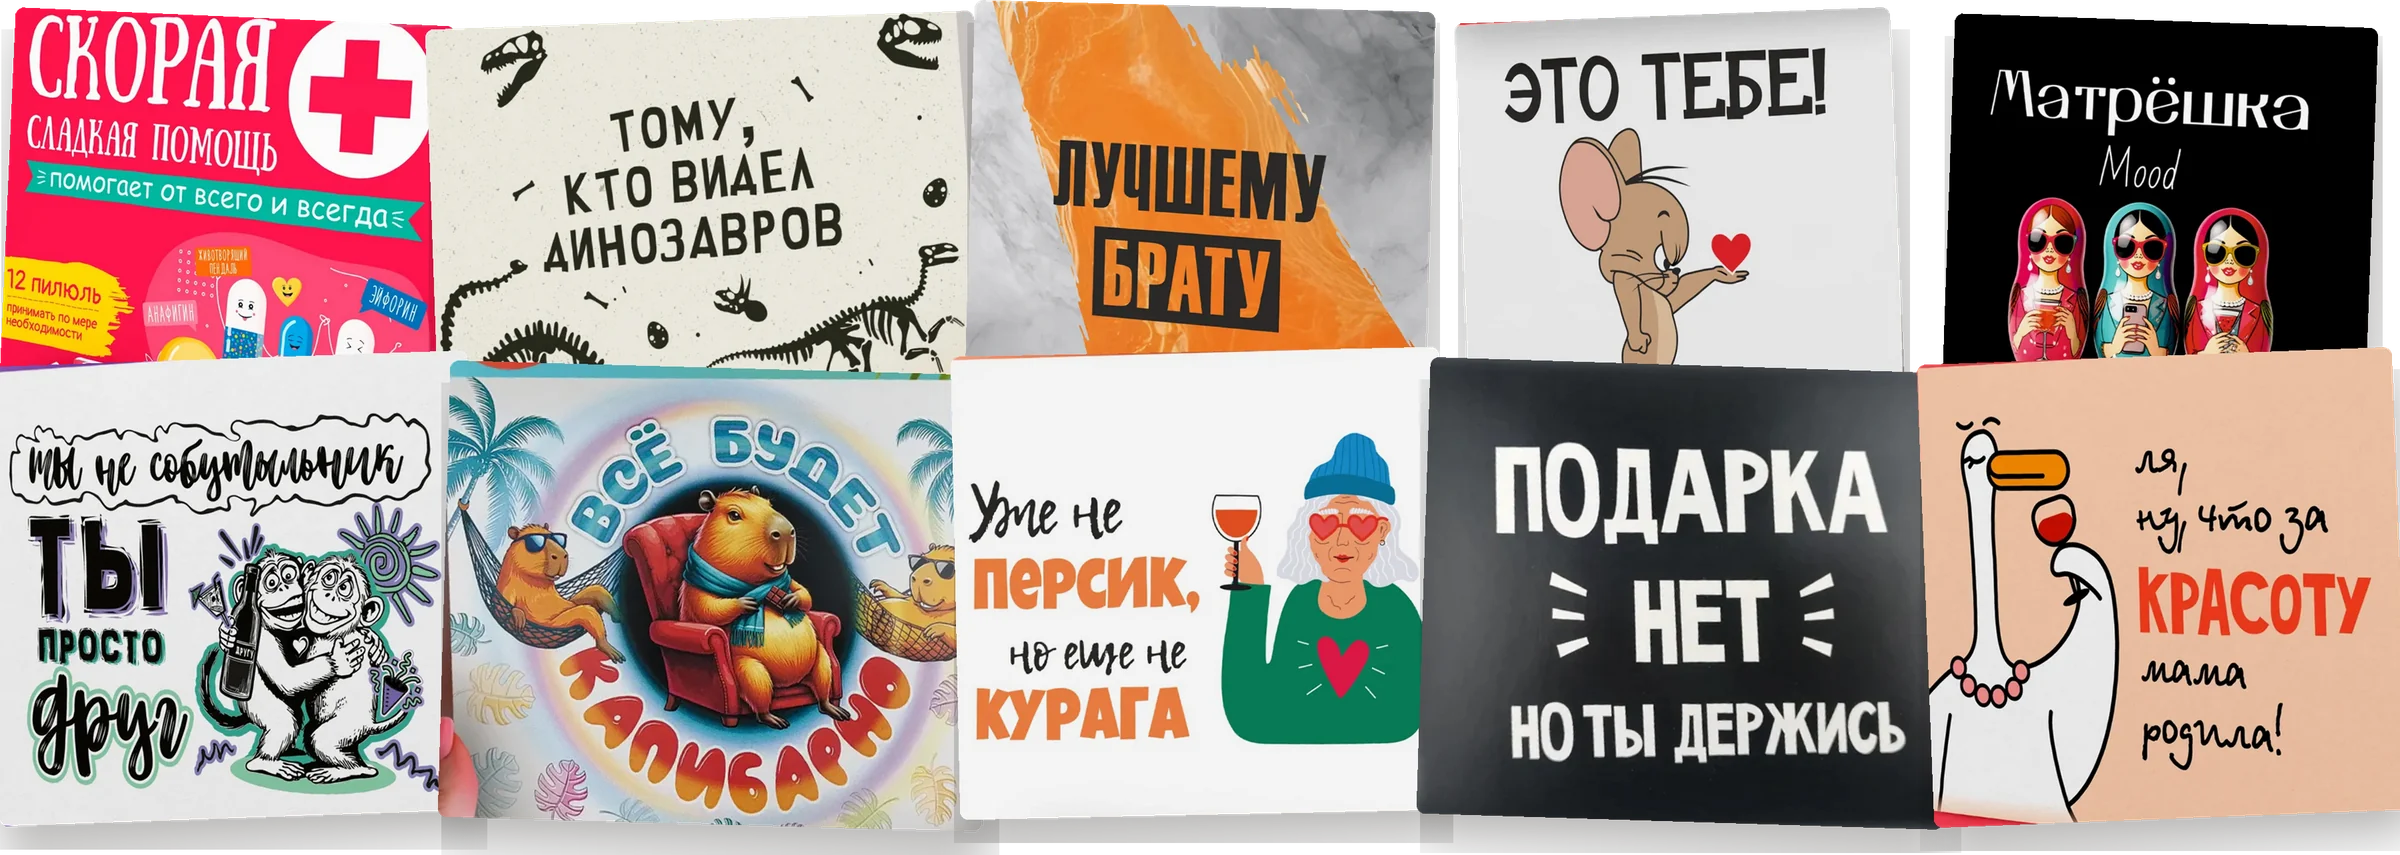
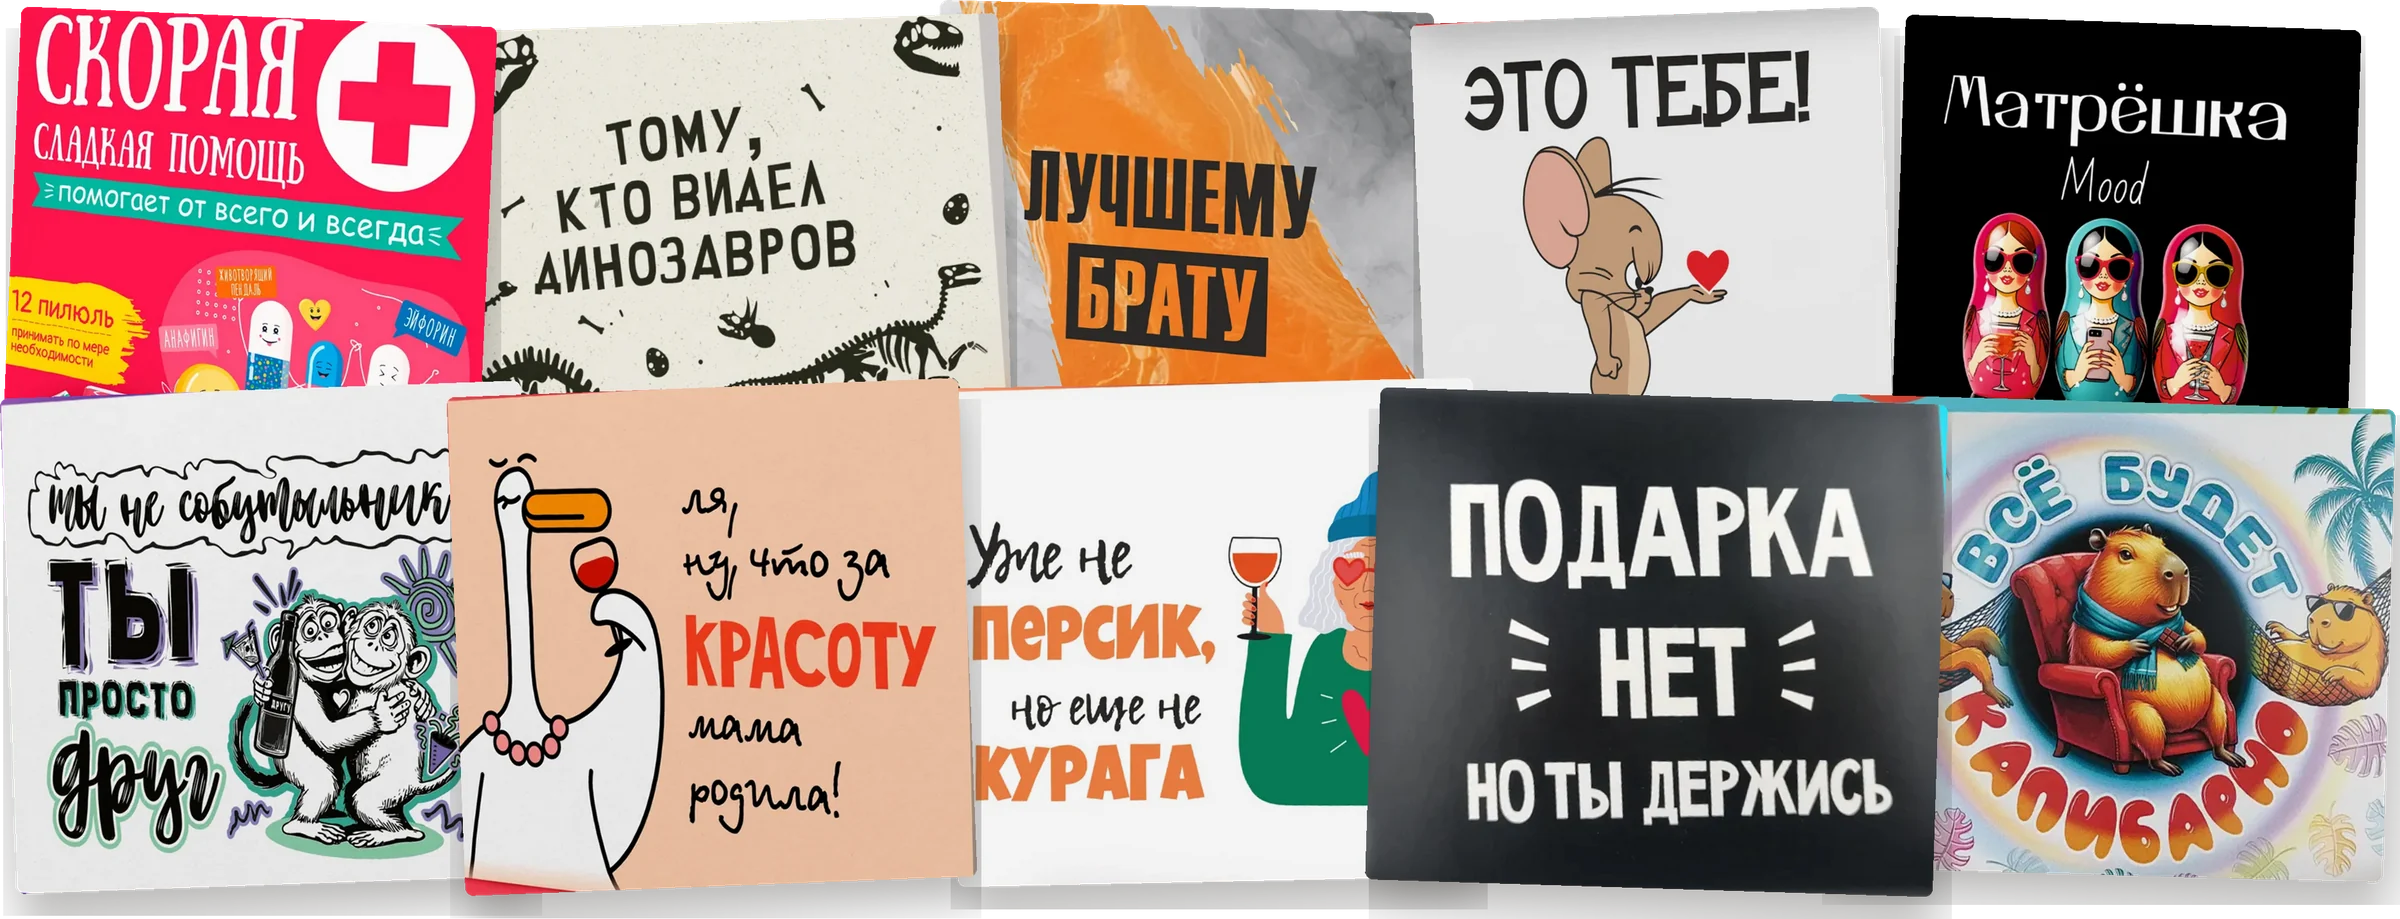
Крупнее раскладка шокобоксов: плотнее композиция, шире колонка фото

diff --git a/index.html b/index.html
@@ -53,7 +53,7 @@ nav{
 /* ─ MAIN ─ */
 main{
   display:grid;
-  grid-template-columns:minmax(340px,48%) 1fr;
+  grid-template-columns:minmax(320px,38%) 1fr;
   gap:0;
   height:100%;
   overflow:hidden;
@@ -84,7 +84,7 @@ main{
 
 h1{
   font-family:'Playfair Display',Georgia,serif;
-  font-size:clamp(38px,4.2vw,66px);
+  font-size:clamp(34px,3.8vw,60px);
   font-weight:700;line-height:1.04;
   letter-spacing:-.5px;margin-bottom:18px;
   color:#211D18;
@@ -134,6 +134,8 @@ h1 em{font-style:italic;color:#B9975B}
   max-height:calc(100dvh - 60px - 40px);
   object-fit:contain;
   display:block;
+  transform:scale(1.04);
+  transform-origin:right center;
 }
 
 /* ─ MOBILE ─ */
@@ -190,7 +192,7 @@ h1 em{font-style:italic;color:#B9975B}
     overflow:visible;
   }
 
-  .showcase{max-height:none}
+  .showcase{max-height:none;transform:none}
 }
 
 @media(max-width:480px){